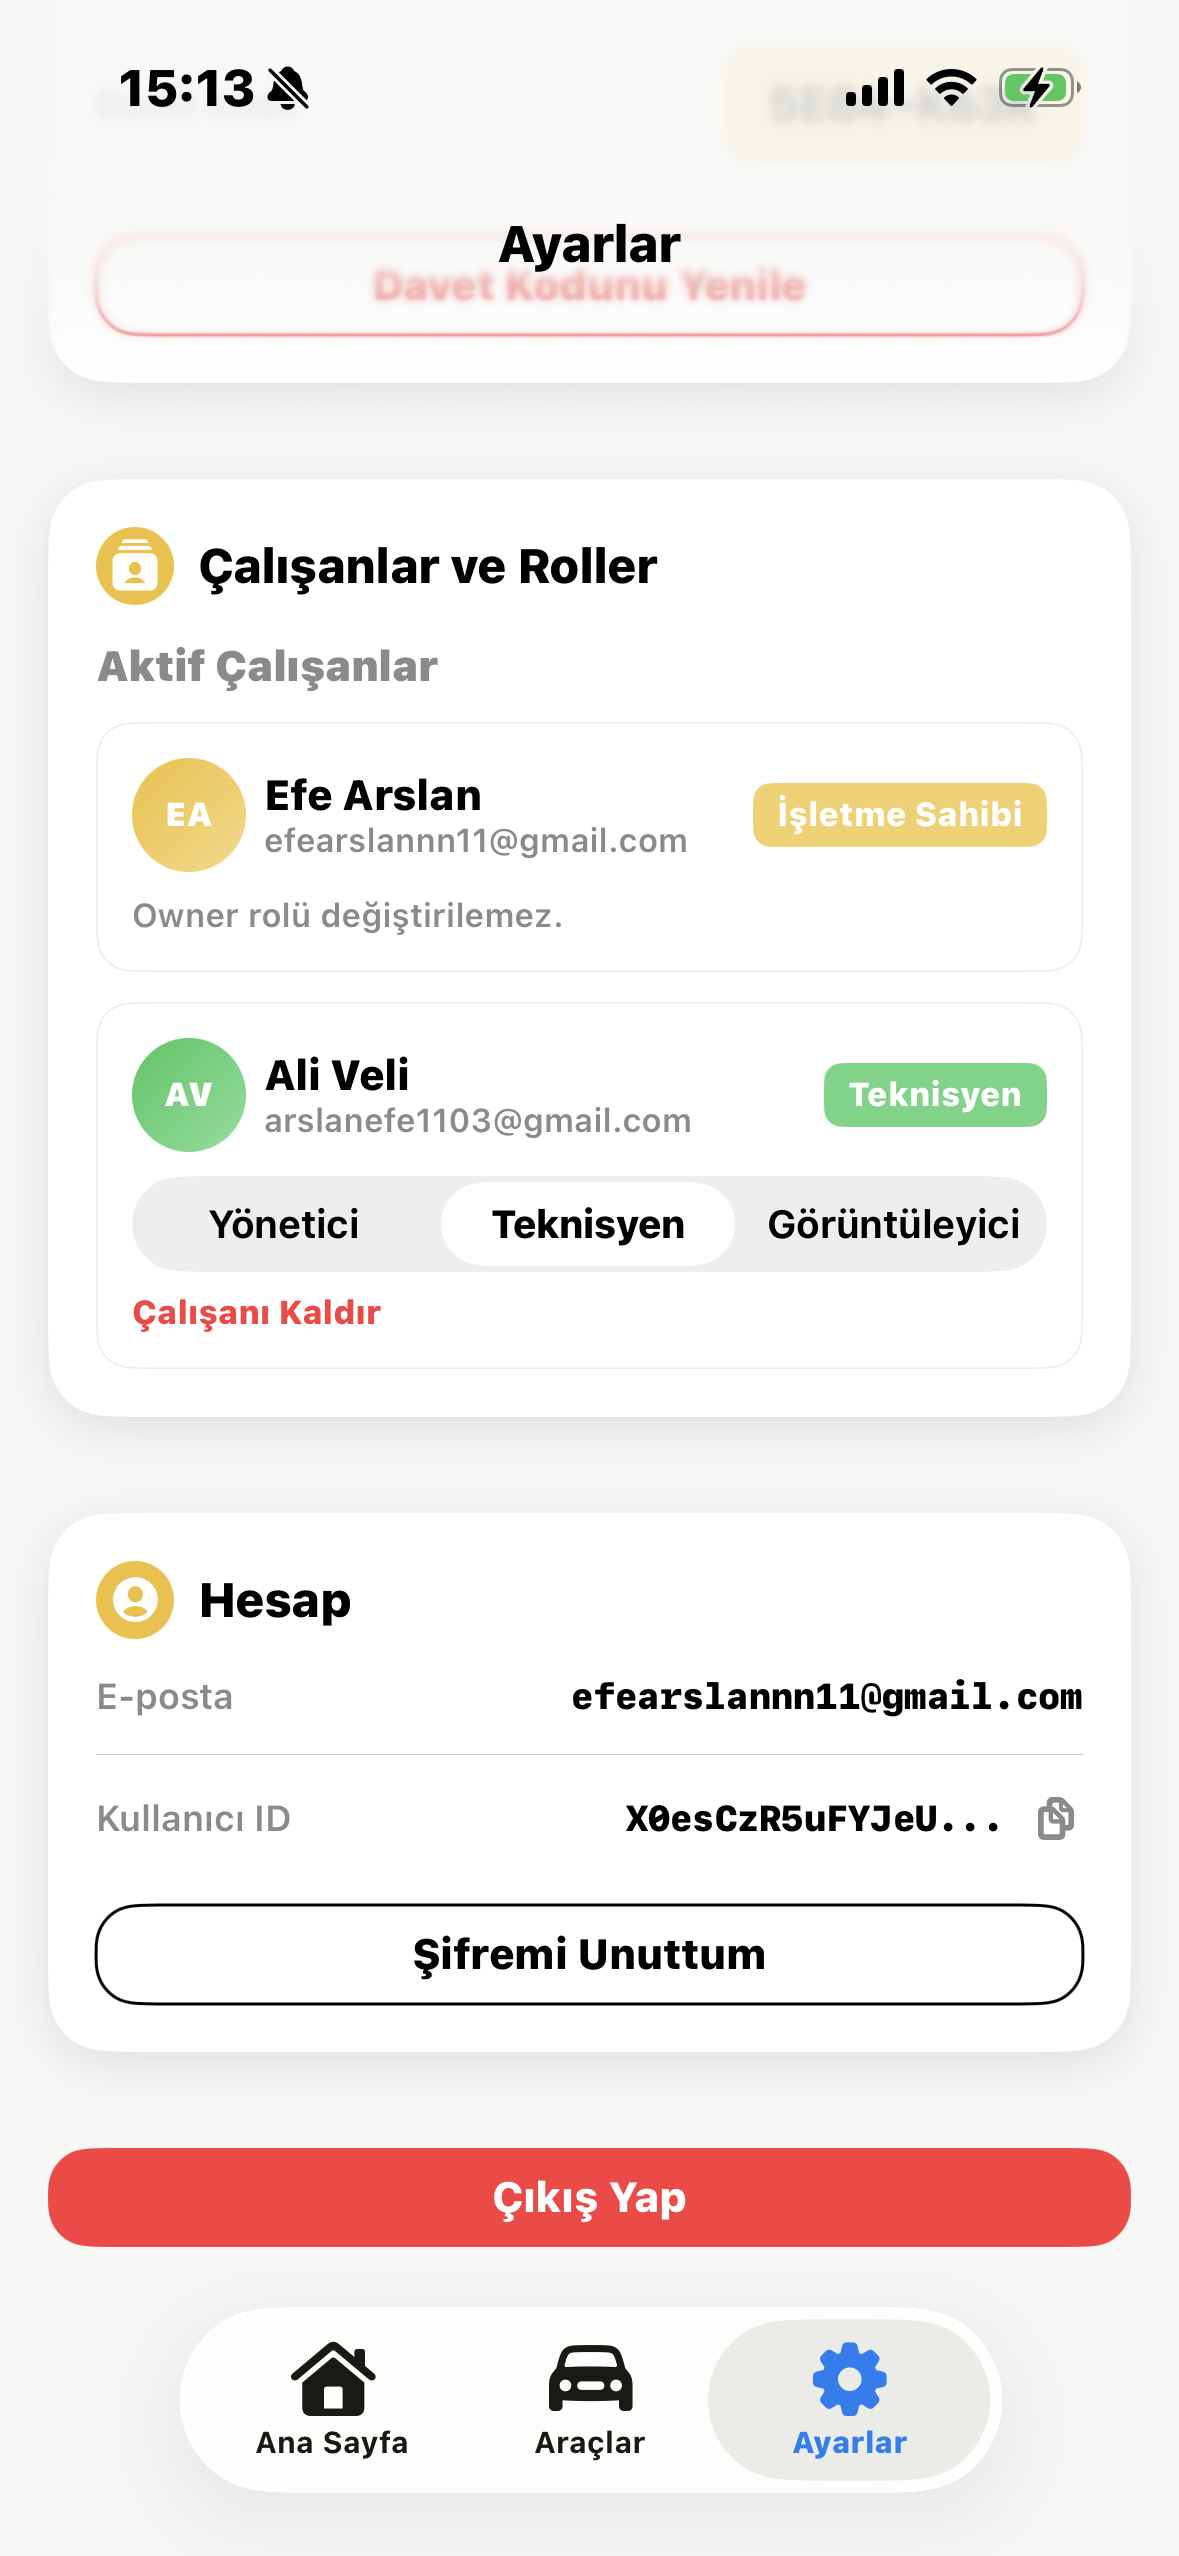
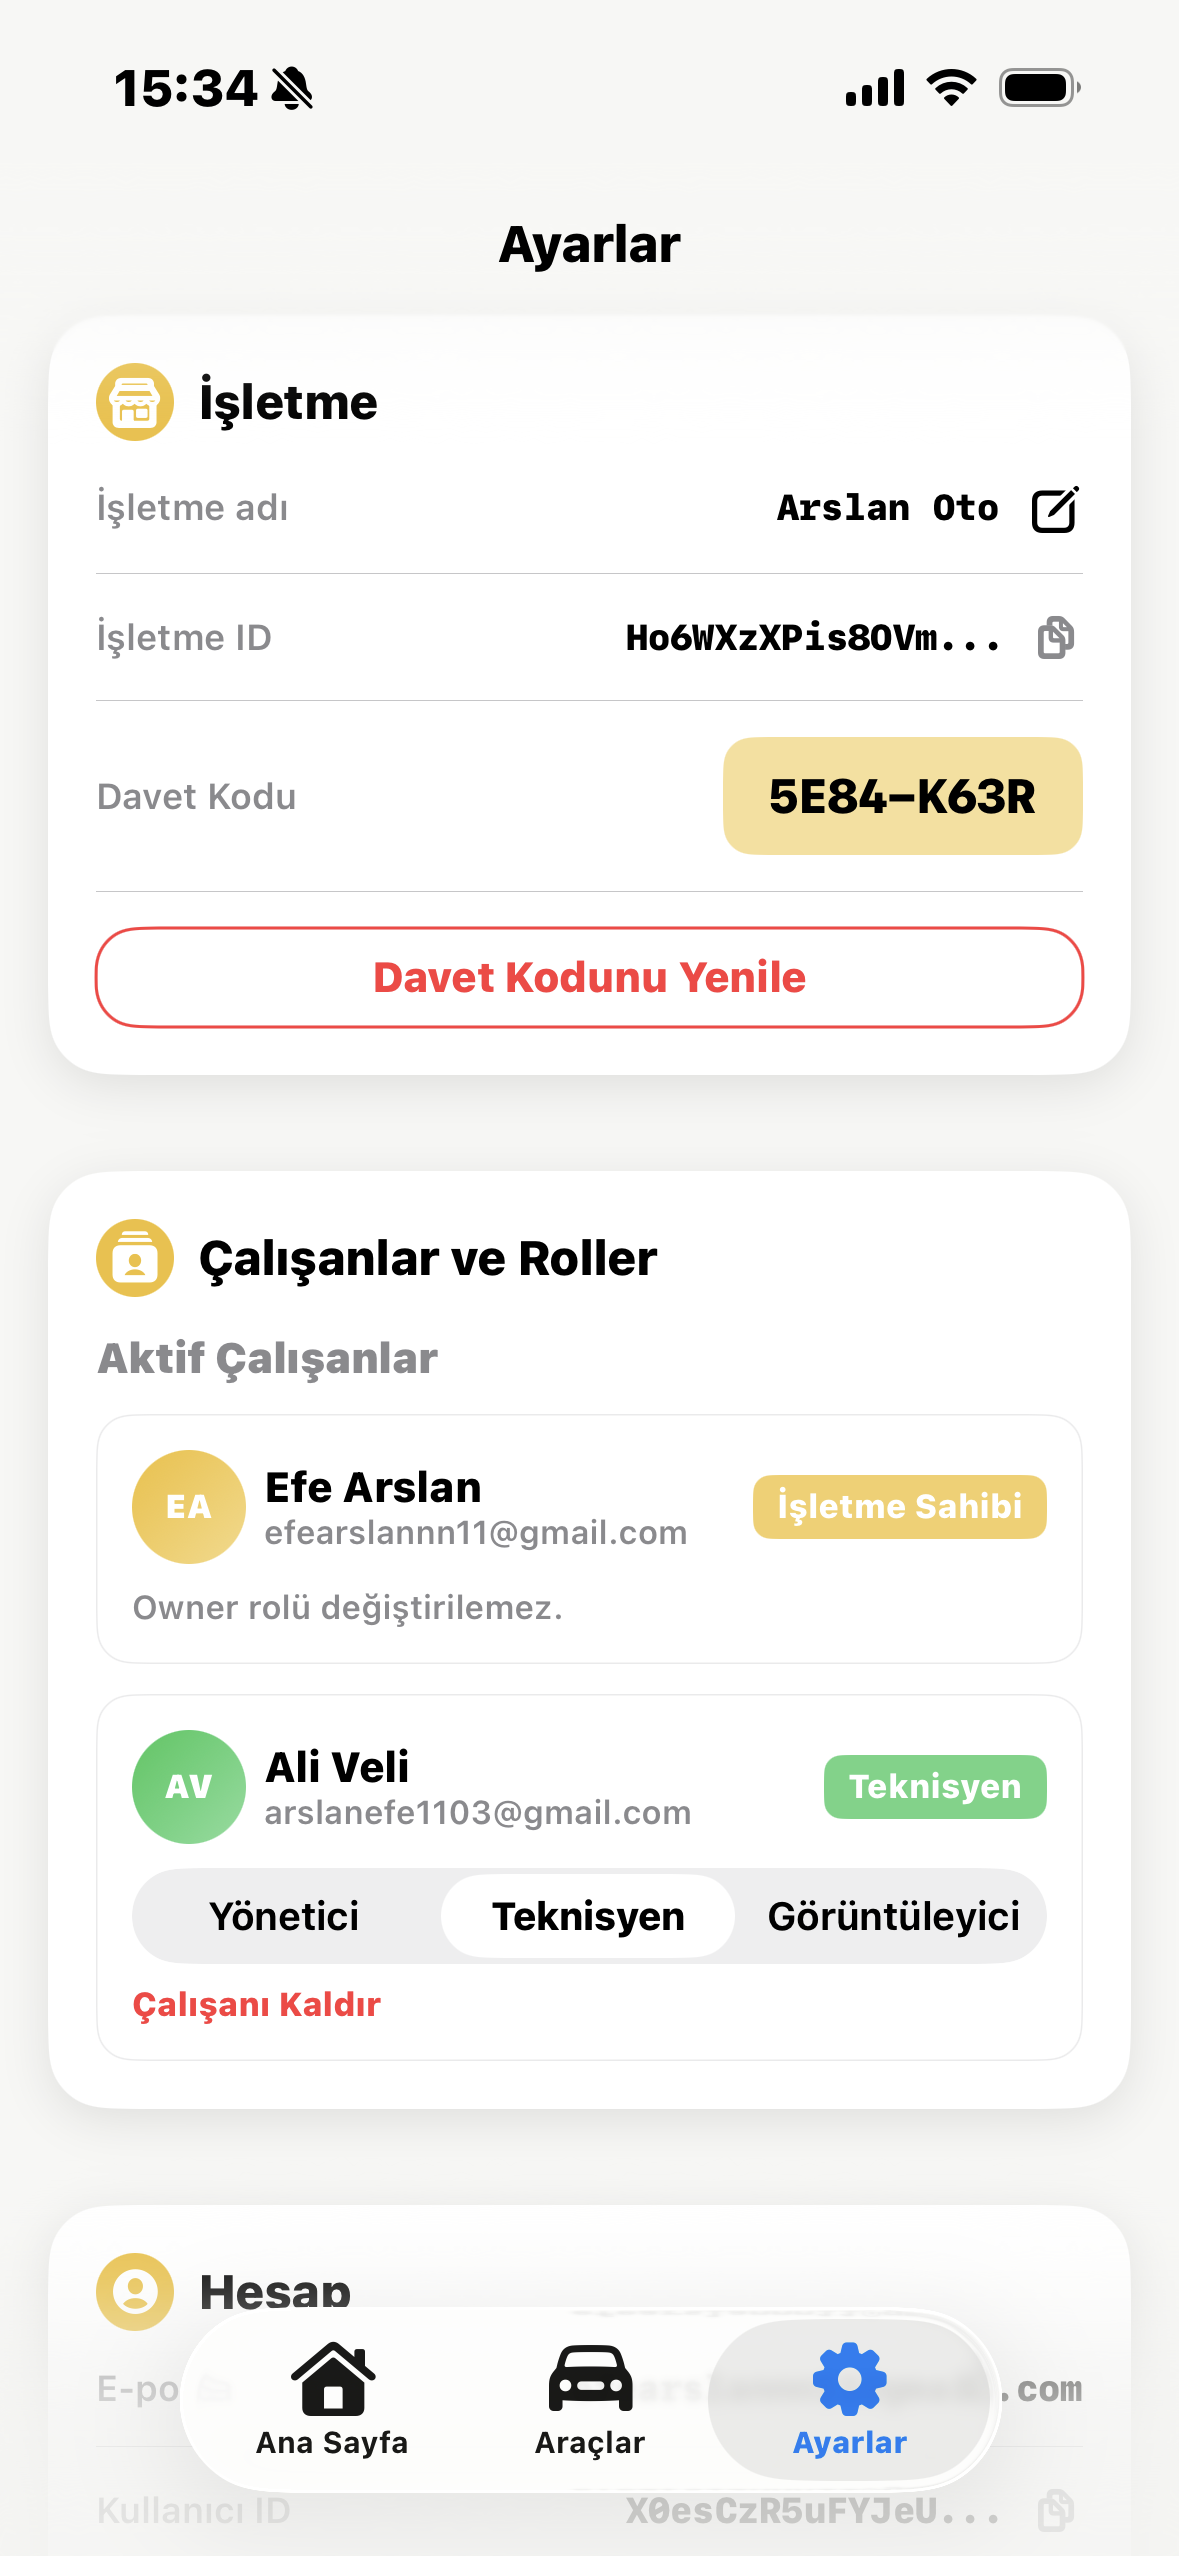
Refactor README layout and update screenshots

diff --git a/README.md b/README.md
@@ -4,7 +4,7 @@ Native iOS client for the **Mechanik** automotive workshop platform. Manage vehi
 
 ---
 
-## 📌 Overview
+## Overview
 
 This app digitizes day-to-day workshop operations on mobile: vehicles, service jobs, costing, and a home dashboard with KPIs and trends.
 
@@ -12,22 +12,22 @@ The goal matches the web product — structured, traceable service history inste
 
 ---
 
-## ⚙ Features
+## Features
 
-### 🏢 Business Management
+### Business Management
 
 - Create and manage a business account
 - Join businesses via invitation code
 - Role-based access (Owner / Employee)
 - Team and business settings
 
-### 🚗 Vehicle Management
+### Vehicle Management
 
 - Register vehicles with customer information
 - Structured vehicle history and detail views
 - Service records per vehicle with filtering
 
-### 🔧 Service Operations
+### Service Operations
 
 - Create detailed service jobs (maintenance, repair, diagnostics)
 - Predefined and custom service categories
@@ -35,14 +35,14 @@ The goal matches the web product — structured, traceable service history inste
 - Attach images for documentation
 - Full lifecycle tracking (Active → Completed)
 
-### 💰 Cost Management
+### Cost Management
 
 - Parts, quantities, and unit prices per job
 - Automatic total cost calculation
 - Separate labor and parts tracking
 - Transparent per-job cost breakdown
 
-### 📊 Home Dashboard
+### Home Dashboard
 
 - Active job monitoring and alerts
 - Recent jobs with quick access to details
@@ -51,7 +51,7 @@ The goal matches the web product — structured, traceable service history inste
 
 ---
 
-## 🧠 Problem It Solves
+## Problem It Solves
 
 - No structured service history on the shop floor
 - Hard to look up past maintenance while with a customer or at a vehicle
@@ -60,7 +60,7 @@ The goal matches the web product — structured, traceable service history inste
 
 ---
 
-## 🛠 Tech Stack
+## Tech Stack
 
 - **Swift** & **SwiftUI**
 - **Swift Charts** (dashboard analytics)
@@ -69,7 +69,7 @@ The goal matches the web product — structured, traceable service history inste
 
 ---
 
-## 🔗 Related Project
+## Related Project
 
 | Platform | Repository |
 |----------|------------|
@@ -80,19 +80,17 @@ Business analysis and QA documentation live in the web repository under `docs/ba
 
 ---
 
-## 📄 Documentation
+## Documentation
 
 Structured BA and QA docs ship with the web project:
 
-### Business Analysis
-
-- System overview, personas, and epics → `docs/ba/` (web repo)
+**Business Analysis**
+- System overview, personas, and epics → `docs/ba/`
 - Feature specs (Vehicle, Service, Reporting) → `docs/ba/features/`
 - Process flow diagrams → `docs/ba/diagrams/`
 
-### Quality Assurance
-
-- Feature-level test cases → `docs/qa/` (web repo)
+**Quality Assurance**
+- Feature-level test cases → `docs/qa/`
 - Cross-module integration tests → `docs/qa/cross-module-tests.md`
 - System-level scenarios → `docs/qa/system_testcases.md`
 
@@ -100,11 +98,11 @@ Structured BA and QA docs ship with the web project:
 
 ---
 
-## 🚀 Getting Started
+## Getting Started
 
 ### Prerequisites
 
-- macOS with **Xcode** (version that supports the project’s iOS deployment target)
+- macOS with **Xcode** (version that supports the project's iOS deployment target)
 - An Apple Developer account (for device testing; Simulator is enough for local dev)
 - A Firebase project shared with the web app (Auth, Firestore, Storage enabled)
 
@@ -127,7 +125,7 @@ Structured BA and QA docs ship with the web project:
 
 4. In Xcode, select the **Mechanik** scheme and a simulator or connected device, then **Run** (⌘R). Swift Package Manager will resolve **firebase-ios-sdk** on first build.
 
-### First launch flow
+### First Launch Flow
 
 1. Sign in or register (Firebase Auth)
 2. Verify email when prompted
@@ -136,53 +134,51 @@ Structured BA and QA docs ship with the web project:
 
 ---
 
-## 📸 Screenshots
+## Screenshots
 
-App screenshots live in [`docs/screenshots/`](docs/screenshots/) (not in `Assets.xcassets` — those are for in-app assets only). Files named with `-1`, `-2`, `-3` are sequential captures of the same screen when the content did not fit in a single shot.
+### Authentication & Onboarding
 
-### Authentication
+<p align="center">
+  <img src="docs/screenshots/signup.png" width="220" />
+  <img src="docs/screenshots/create-business.png" width="220" />
+</p>
 
-![Sign up](docs/screenshots/signup.png)
+### Home & Analytics
 
-### Business onboarding
-
-![Create or join a business](docs/screenshots/create-business.png)
-
-### Home & analytics
-
-![Home dashboard](docs/screenshots/home.png)
-
-Home KPI section (long scroll — shown in order across two captures):
-
-![Home KPIs (1/2)](docs/screenshots/kpi-1.png)
-
-![Home KPIs (2/2)](docs/screenshots/kpi-2.png)
+<p align="center">
+  <img src="docs/screenshots/home.png" width="220" />
+  <img src="docs/screenshots/kpi-1.png" width="220" />
+  <img src="docs/screenshots/kpi-2.png" width="220" />
+</p>
 
 ### Vehicles
 
-![Vehicle list](docs/screenshots/vehicles.png)
+<p align="center">
+  <img src="docs/screenshots/vehicles.png" width="220" />
+  <img src="docs/screenshots/vehicle-detail.png" width="220" />
+</p>
 
-![Vehicle detail and service history](docs/screenshots/vehicle-detail.png)
+### Service Jobs
 
-### Service jobs
+<p align="center">
+  <img src="docs/screenshots/new-job-1.png" width="220" />
+  <img src="docs/screenshots/new-job-2.png" width="220" />
+  <img src="docs/screenshots/new-job-3.png" width="220" />
+</p>
 
-New job form (long scroll — shown in order across three captures):
-
-![New job (1/3)](docs/screenshots/new-job-1.png)
-
-![New job (2/3)](docs/screenshots/new-job-2.png)
-
-![New job (3/3)](docs/screenshots/new-job-3.png)
-
-![Job details](docs/screenshots/job-details.png)
+<p align="center">
+  <img src="docs/screenshots/job-details.png" width="220" />
+</p>
 
 ### Team
 
-![Team and roles](docs/screenshots/team.png)
+<p align="center">
+  <img src="docs/screenshots/team.png" width="220" />
+</p>
 
 ---
 
-## 🤖 AI Usage
+## AI Usage
 
 AI tools were used as a development assistant for productivity and debugging support.
 
@@ -190,12 +186,12 @@ Architecture decisions, system design, and implementation logic were fully contr
 
 ---
 
-## 📌 Status
+## Status
 
 This project is under **active development**. New features and improvements are added continuously and kept in sync with the web platform where it makes sense.
 
 ---
 
-## 📬 Feedback
+## Feedback
 
 Feedback, suggestions, and improvements are welcome — open an issue or reach out via the repository.
